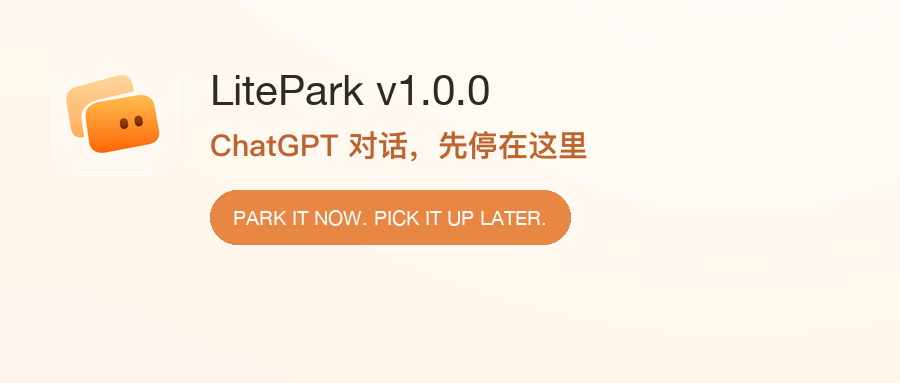
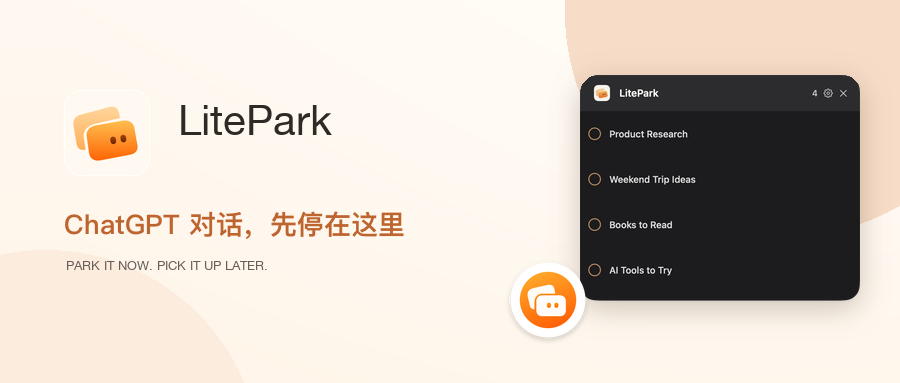
Enrich LitePark WeChat launch visuals

diff --git a/releases/20261001_LitePark_Launch_v1.0/wechat/article.html b/releases/20261001_LitePark_Launch_v1.0/wechat/article.html
@@ -3,10 +3,10 @@
 <p class="lead">ChatGPT 历史记录保存了对话，却没有表达一个很具体的状态：这段对话我现在不处理，但之后一定要回来。</p>
 <h2>为什么做 LitePark？</h2><p>我在 ChatGPT Desktop 里经常同时保留不少对话：产品调研、准备继续看的资料、旅行计划、阅读清单，或者一个暂时没空展开的想法。</p><p>这些对话没有消失，它们只是很容易沉进历史记录。收藏、置顶和未读也不完全等于“稍后处理”。我需要的是一个更明确、更轻的队列。</p><p>于是有了 LitePark。名字里的 Park，就是先把一段对话停好：<strong>Park it now. Pick it up later.</strong></p>
 <img class="shot" src="images/product-demo-queue.png" alt="LitePark 使用虚构对话名的 Demo 队列">
-<h2>它怎么用？</h2><div class="flow">当前对话 → 加入 LitePark → 稍后打开 → Done</div><ol><li>在 ChatGPT Desktop 打开一段对话。</li><li>按 <strong>Control + Option + L</strong> 加入 LitePark。</li><li>通过可移动的悬浮球，或 <strong>Control + Option + K</strong> 打开列表。</li><li>拖动调整顺序，点击标题回到对应对话。</li><li>处理完成后，点击左侧圆圈把它标记为 Done。</li></ol>
-<h2>v1.0.0 现在能做什么？</h2><ul><li>读取当前打开的 ChatGPT 对话名称并加入队列；</li><li>新对话放在顶部，同时防止同名项目被重复加入；</li><li>通过 Drag Handle 手动排序，并在重启后保留顺序；</li><li>从 LitePark 回到 ChatGPT Desktop 中对应的对话；</li><li>完成后从队列移除；</li><li>跨显示器自由移动悬浮球；</li><li>在本地保存队列，不上传对话内容。</li></ul>
+<h2>它怎么用？</h2><div class="flow">当前对话 → 加入 LitePark → 稍后打开 → Done</div><ol><li>在 ChatGPT Desktop 打开一段对话。</li><li>按 <strong>Control + Option + L</strong> 加入 LitePark。</li><li>通过可移动的悬浮球，或 <strong>Control + Option + K</strong> 打开列表。</li><li>拖动调整顺序，点击标题回到对应对话。</li><li>处理完成后，点击左侧圆圈把它标记为 Done。</li></ol><img class="shot" src="images/01-floating-workflow.png" alt="LitePark 平时只保留悬浮球入口">
+<h2>v1.0.0 现在能做什么？</h2><ul><li>读取当前打开的 ChatGPT 对话名称并加入队列；</li><li>新对话放在顶部，同时防止同名项目被重复加入；</li><li>通过 Drag Handle 手动排序，并在重启后保留顺序；</li><li>从 LitePark 回到 ChatGPT Desktop 中对应的对话；</li><li>完成后从队列移除；</li><li>跨显示器自由移动悬浮球；</li><li>在本地保存队列，不上传对话内容。</li></ul><img class="shot" src="images/02-manual-order.png" alt="LitePark 手动拖拽排序示意"><img class="shot" src="images/03-return-to-chatgpt.png" alt="LitePark 返回 ChatGPT 并验证对话"><img class="shot" src="images/05-done.png" alt="LitePark Done 操作示意">
 <h2>我刻意没有做什么？</h2><p>LitePark 没有标签、提醒、截止日期、优先级、AI 总结和云同步。它也不想成为另一个任务管理系统。</p><p>这个产品只服务一个动作：我现在顾不上这段对话，但我需要一个明确的位置，提醒自己之后回来。</p>
-<h2>隐私与本地数据</h2><p>LitePark 只保存本地队列需要的元数据：对话名称、本地项目 ID、加入时间和手动顺序。它不保存 Prompt、回复、截图、账号信息，也没有统计或遥测。</p><p class="note">这篇文章和所有公开截图都使用虚构 Demo 对话名，不包含我真实的 ChatGPT 对话。</p>
+<h2>隐私与本地数据</h2><p>LitePark 只保存本地队列需要的元数据：对话名称、本地项目 ID、加入时间和手动顺序。它不保存 Prompt、回复、截图、账号信息，也没有统计或遥测。</p><img class="shot" src="images/04-local-privacy.png" alt="LitePark 本地数据与隐私边界"><p class="note">这篇文章和所有公开截图都使用虚构 Demo 对话名，不包含我真实的 ChatGPT 对话。</p>
 <h2>当前限制</h2><p>v1.0.0 依赖对话名称识别 ChatGPT 对话。比较稳妥的方式是：</p><ol><li>先在 ChatGPT 中把对话名称改好；</li><li>再把它加入 LitePark；</li><li>加入后暂时不要再次修改名称。</li></ol><p>重名对话会被视为不明确，LitePark 不会猜。自动打开也要求目标对话当前能够出现在 ChatGPT 侧栏的 macOS Accessibility 信息中。这套机制后续还会继续优化，但目前没有承诺具体日期。</p>
 <h2>这是一次怎样的 Vibe Coding？</h2><p>LitePark 的第一版不是靠一句 Prompt 一次生成的。浮窗响应、悬浮球拖动、全局快捷键、排序、后台唤起 ChatGPT，以及跳转后的标题验证，都经历了真实使用、发现失败、定位原因和再次验证。</p><p>AI 加快了实现和检查；产品边界、取舍、视觉反馈和是否真的好用，仍然需要人在真实设备上作判断。</p>
 <h2>为什么现在发布？</h2><p>因为最初想解决的完整路径已经跑通了：</p><div class="flow">现在不处理 → 先停一下 → 稍后回来 → 处理完成</div><p>它还不完美，但已经是一个可以每天使用、也值得接受真实反馈的 v1.0.0。</p>

diff --git a/releases/20261001_LitePark_Launch_v1.0/render_trigger.swift b/releases/20261001_LitePark_Launch_v1.0/render_trigger.swift
@@ -1,0 +1,33 @@
+import AppKit
+
+@main
+struct TriggerRenderer {
+    static func main() throws {
+        let output = CommandLine.arguments.dropFirst().first ?? "assets/LitePark-trigger.png"
+        let size = NSSize(width: 320, height: 320)
+        let bitmap = NSBitmapImageRep(bitmapDataPlanes: nil, pixelsWide: 320, pixelsHigh: 320,
+                                     bitsPerSample: 8, samplesPerPixel: 4, hasAlpha: true,
+                                     isPlanar: false, colorSpaceName: .deviceRGB,
+                                     bytesPerRow: 0, bitsPerPixel: 0)!
+        bitmap.size = size
+        NSGraphicsContext.saveGraphicsState()
+        NSGraphicsContext.current = NSGraphicsContext(bitmapImageRep: bitmap)
+        NSColor.clear.setFill(); NSRect(origin: .zero, size: size).fill()
+
+        let shadow = NSShadow()
+        shadow.shadowColor = NSColor.black.withAlphaComponent(0.22)
+        shadow.shadowBlurRadius = 20
+        shadow.shadowOffset = NSSize(width: 0, height: -7)
+        shadow.set()
+        NSColor.white.setFill()
+        NSBezierPath(ovalIn: NSRect(x: 35, y: 35, width: 250, height: 250)).fill()
+        NSGraphicsContext.restoreGraphicsState()
+
+        NSGraphicsContext.saveGraphicsState()
+        NSGraphicsContext.current = NSGraphicsContext(bitmapImageRep: bitmap)
+        BrandArtwork.drawTrigger(in: NSRect(x: 50, y: 50, width: 220, height: 220), hover: 0)
+        NSGraphicsContext.current?.flushGraphics()
+        NSGraphicsContext.restoreGraphicsState()
+        try bitmap.representation(using: .png, properties: [:])!.write(to: URL(fileURLWithPath: output))
+    }
+}

diff --git a/releases/20261001_LitePark_Launch_v1.0/render_launch_assets.py b/releases/20261001_LitePark_Launch_v1.0/render_launch_assets.py
@@ -6,6 +6,7 @@ ROOT = Path(__file__).resolve().parent
 ASSETS = ROOT / "assets"
 ICON = Image.open(ASSETS / "LitePark-icon-512.png").convert("RGBA")
 PANEL = Image.open(ASSETS / "LitePark-demo-queue.png").convert("RGBA")
+TRIGGER = Image.open(ASSETS / "LitePark-trigger.png").convert("RGBA")
 URL = "https://github.com/victor-zhang-2026/LitePark"
 ORANGE = "#E88743"
 DEEP = "#BD642F"
@@ -153,16 +154,86 @@ def save_cards(outdir, size, language):
 
 def covers():
     out=ROOT/"wechat"; out.mkdir(exist_ok=True); (out/"images").mkdir(exist_ok=True)
-    for size,name in [((900,383),"cover-900x383.png"),((900,900),"cover-square.png")]:
-        im=canvas(size).convert("RGBA");d=ImageDraw.Draw(im)
-        logo,pos=fit(ICON,(50,48,130,130)); im.alpha_composite(logo,pos)
-        text(d,(210,65),"LitePark v1.0.0",42,bold=True)
-        text(d,(210,124),"ChatGPT 对话，先停在这里",30,bold=True,cn=True,fill=DEEP)
-        if size[1]>500: panel_card(im,(120,265,660,560))
-        else: badge(d,(210,190),"PARK IT NOW. PICK IT UP LATER.")
-        im.convert("RGB").save(out/name)
+    im=canvas((900,383)).convert("RGBA");d=ImageDraw.Draw(im)
+    d.ellipse((565,-210,1010,235),fill="#F7DDC8")
+    d.ellipse((-170,250,260,680),fill="#FCECDD")
+    logo,pos=fit(ICON,(62,88,90,90)); im.alpha_composite(logo,pos)
+    text(d,(178,95),"LitePark",42,bold=True)
+    text(d,(64,205),"ChatGPT 对话，先停在这里",27,bold=True,cn=True,fill=DEEP)
+    text(d,(66,257),"PARK IT NOW. PICK IT UP LATER.",13,bold=True,fill=BODY)
+    p,pos=fit(PANEL,(580,18,280,350));p=round_image(p,18);shadow_paste(im,p,pos,blur=14,offset=8)
+    t,pos=fit(TRIGGER,(500,252,96,96));im.alpha_composite(t,pos)
+    im.convert("RGB").save(out/"cover-900x383.png")
+
+    im=canvas((900,900)).convert("RGBA");d=ImageDraw.Draw(im)
+    d.ellipse((475,-120,980,385),fill="#F7DDC8")
+    faded=PANEL.copy();faded.putalpha(38);p,pos=fit(faded,(470,250,380,480));im.alpha_composite(p,pos)
+    logo,pos=fit(ICON,(300,155,300,300));shadow_paste(im,logo,pos,blur=22,offset=12)
+    text(d,(450,525),"LitePark",64,bold=True,anchor="mm")
+    text(d,(450,610),"ChatGPT 对话，先停在这里",33,bold=True,cn=True,fill=DEEP,anchor="mm")
+    text(d,(450,690),"PARK IT NOW. PICK IT UP LATER.",16,bold=True,fill=BODY,anchor="mm")
+    im.convert("RGB").save(out/"cover-square.png")
     PANEL.save(out/"images/product-demo-queue.png")
     ICON.save(out/"images/litepark-logo.png")
+
+def wechat_story_images():
+    out=ROOT/"wechat/images";out.mkdir(parents=True,exist_ok=True)
+    specs=[
+      ("01-floating-workflow.png","平时只留一个小入口","鼠标移到悬浮球，LitePark 才展开。"),
+      ("02-manual-order.png","顺序由你决定","拖动当前行右侧的 Handle，队列立即保存。"),
+      ("03-return-to-chatgpt.png","从 LitePark 回到原对话","点击整行，LitePark 唤起 ChatGPT 并验证标题。"),
+      ("04-local-privacy.png","只保存本地队列","标题、顺序与本地 ID 留在 Mac；不保存对话正文。"),
+      ("05-done.png","处理完，轻轻勾掉","Done 只移出 LitePark 队列，不会删除 ChatGPT 对话。"),
+    ]
+    for i,(name,title,subtitle) in enumerate(specs):
+        im=canvas((1200,800)).convert("RGBA");d=ImageDraw.Draw(im)
+        logo,pos=fit(ICON,(62,52,68,68));im.alpha_composite(logo,pos)
+        text(d,(150,65),"LitePark",30,bold=True)
+        text(d,(64,168),title,50,bold=True,cn=True)
+        text(d,(66,240),subtitle,25,cn=True,fill=BODY)
+        if i==0:
+            d.rounded_rectangle((64,335,1136,720),radius=34,fill="#ECE8E3")
+            d.rounded_rectangle((64,335,1136,395),radius=30,fill="#F7F4F0")
+            for x,c in [(98,"#FF5F57"),(132,"#FEBB2E"),(166,"#28C840")]:d.ellipse((x,354,x+20,374),fill=c)
+            for n,w in enumerate([550,700,620]):d.rounded_rectangle((135,460+n*58,135+w,476+n*58),radius=8,fill="#CBC4BE")
+            t,pos=fit(TRIGGER,(970,500,135,135));im.alpha_composite(t,pos)
+            text(d,(1090,660),"需要时出现",22,bold=True,cn=True,fill=DEEP,anchor="ra")
+        elif i==1:
+            panel_card(im,(90,330,630,430))
+            d.rounded_rectangle((770,360,1110,640),radius=28,fill="white")
+            text(d,(810,400),"Product Research",23,bold=True)
+            text(d,(810,480),"Weekend Trip Ideas",23,bold=True)
+            d.line((792,458,1080,458),fill=ORANGE,width=6)
+            text(d,(940,585),"Drag to reorder",21,bold=True,fill=DEEP,anchor="mm")
+        elif i==2:
+            panel_card(im,(70,340,460,390))
+            d.rounded_rectangle((690,350,1120,705),radius=30,fill="#302A27")
+            text(d,(905,410),"ChatGPT",33,bold=True,fill="white",anchor="mm")
+            text(d,(735,490),"Product Research",27,bold=True,fill="white")
+            d.rounded_rectangle((735,555,1075,625),radius=16,fill="#3B3734")
+            text(d,(905,590),"Opened and verified",20,bold=True,fill="#F4CBA8",anchor="mm")
+            d.line((570,525,650,525),fill=ORANGE,width=8)
+            d.polygon([(650,525),(625,507),(625,543)],fill=ORANGE)
+        elif i==3:
+            labels=[("TITLE","对话标题"),("ORDER","手动顺序"),("LOCAL ID","本地项目 ID")]
+            for n,(tag,desc) in enumerate(labels):
+                yy=350+n*118;d.rounded_rectangle((64,yy,710,yy+88),radius=22,fill="white")
+                text(d,(94,yy+18),tag,16,bold=True,fill=ORANGE);text(d,(250,yy+25),desc,24,bold=True,cn=True)
+            d.rounded_rectangle((780,350,1136,672),radius=30,fill="#302A27")
+            text(d,(958,415),"不保存",28,bold=True,cn=True,fill="#F4CBA8",anchor="mm")
+            text(d,(958,505),"Prompt\n回复\n截图\n账号信息",27,bold=True,cn=True,fill="white",spacing=16,anchor="ma")
+        else:
+            d.rounded_rectangle((70,360,540,650),radius=30,fill="#302A27")
+            d.ellipse((112,421,142,451),outline=ORANGE,width=4)
+            text(d,(190,430),"Product Research",28,bold=True,fill="white")
+            text(d,(115,535),"点击 Done",22,bold=True,cn=True,fill="#F4CBA8")
+            d.line((575,505,650,505),fill=ORANGE,width=8)
+            d.polygon([(650,505),(625,487),(625,523)],fill=ORANGE)
+            d.rounded_rectangle((690,360,1130,650),radius=30,fill="#302A27")
+            text(d,(910,435),"LitePark",32,bold=True,fill="white",anchor="mm")
+            text(d,(910,520),"3",72,bold=True,fill="#F4CBA8",anchor="mm")
+            text(d,(910,590),"队列继续保持清爽",21,bold=True,cn=True,fill="white",anchor="mm")
+        im.convert("RGB").save(out/name)
 
 if __name__ == "__main__":
     save_cards(ROOT/"xiaohongshu/images",(1080,1440),"cn")
@@ -171,4 +242,5 @@ if __name__ == "__main__":
     for name in ["01-cover.png","03-workflow.png","05-privacy.png","06-open-source.png"]:
         Image.open(ROOT/"linkedin/images"/name).save(ROOT/"x/images"/name)
     covers()
+    wechat_story_images()
     print("Generated LitePark launch assets")

diff --git a/releases/20261001_LitePark_Launch_v1.0/06_Visual_Assets.md b/releases/20261001_LitePark_Launch_v1.0/06_Visual_Assets.md
@@ -2,13 +2,15 @@
 
 ## Ready-to-publish platform packages
 
-- `wechat/` — formatted article HTML, one-click copy page, 900×383 cover, square cover, genuine Demo UI and logo.
+- `wechat/` — formatted article HTML, one-click copy page, redesigned 900×383 and square covers, genuine Demo UI, floating-trigger scene, manual-order illustration, verified-return flow, Done state, and local-privacy diagram.
 - `xiaohongshu/` — six 1080×1440 Chinese launch cards.
 - `x/` — four 1080×1350 English launch cards plus ALT text.
 - `linkedin/` — six 1080×1350 English launch cards plus ALT text.
 - `render_launch_assets.py` — deterministic asset renderer based on existing LitePark artwork and genuine privacy-safe Demo UI.
 
 No social image displays a sequence/page number.
+
+The WeChat story images deliberately alternate genuine product UI with explanatory diagrams, following the stronger visual rhythm proven in LiteTick's launch package. They reuse LitePark's actual logo, actual floating-trigger drawing, and privacy-safe genuine queue capture.
 
 ## Approved public assets
 

diff --git a/releases/20261001_LitePark_Launch_v1.0/02_WeChat.md b/releases/20261001_LitePark_Launch_v1.0/02_WeChat.md
@@ -64,9 +64,12 @@ LitePark v1.0.0 已开源：
 
 1. `wechat/cover-900x383.png` — 公众号头条封面
 2. `wechat/images/product-demo-queue.png` — 使用虚构 Demo 数据的真实队列界面
-3. `xiaohongshu/images/03-workflow.png` — 加入、返回和 Done 流程
-4. `xiaohongshu/images/05-privacy.png` — 本地隐私说明
-5. `xiaohongshu/images/06-open-source.png` — GitHub 与下载 CTA
+3. `wechat/images/01-floating-workflow.png` — 桌面悬浮球入口
+4. `wechat/images/02-manual-order.png` — 手动排序
+5. `wechat/images/03-return-to-chatgpt.png` — 返回并验证 ChatGPT 对话
+6. `wechat/images/05-done.png` — Done 后保持队列清爽
+7. `wechat/images/04-local-privacy.png` — 本地隐私边界
+8. `xiaohongshu/images/06-open-source.png` — GitHub 与下载 CTA
 
 可直接预览和复制的完整排版稿位于 `wechat/article.html` 与 `wechat/article-wechat-copy.html`。所有对话名称均为虚构 Demo 数据。
 

diff --git a/releases/20261001_LitePark_Launch_v1.0/wechat/README.md b/releases/20261001_LitePark_Launch_v1.0/wechat/README.md
@@ -8,6 +8,11 @@
 - `cover-square.png`：聊天、朋友圈等方形分享封面。
 - `images/product-demo-queue.png`：使用虚构对话名的真实 LitePark 界面。
 - `images/litepark-logo.png`：LitePark Logo。
+- `images/01-floating-workflow.png`：悬浮球在桌面上的轻量入口场景。
+- `images/02-manual-order.png`：手动拖拽排序说明。
+- `images/03-return-to-chatgpt.png`：从 LitePark 返回并验证 ChatGPT 对话。
+- `images/04-local-privacy.png`：本地数据和隐私边界。
+- `images/05-done.png`：完成后移出 Later 队列的状态说明。
 
 ## 使用
 
